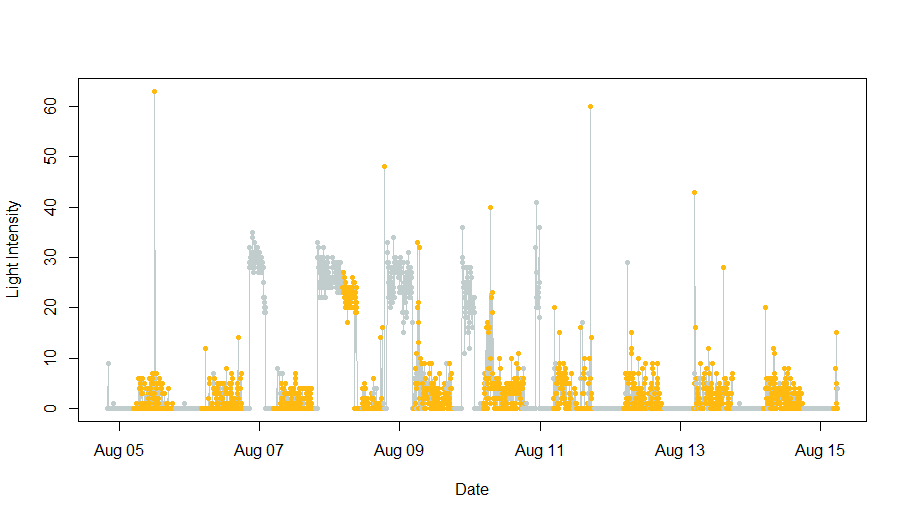
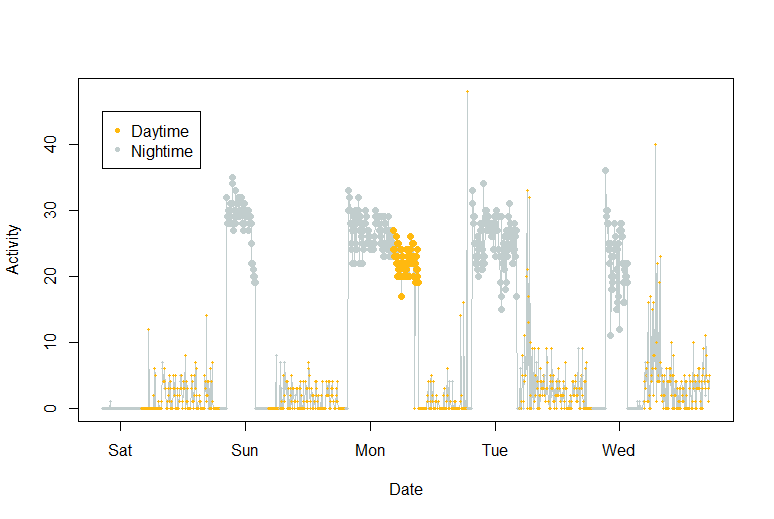
shoretened time of graphics

diff --git a/README.md b/README.md
@@ -38,7 +38,14 @@ data(PAM_data)
 # Look at that data
 str(PAM_data)
 ```
-This is what it should look like
+
+
+To import your own data use:
+```r
+importPAM("C:/Put/your/path/here")`
+```
+
+This is what it should look like:
 
 ```
 # # List of 6
@@ -65,8 +72,6 @@ This is what it should look like
 # #   ..$ mY  : int [1:1559] 15645 15610 15259 15549 15561 14545 16631 14548 15195 10924 ...
 # #   ..$ mZ  : int [1:1559] 5559 4627 6374 6147 5887 10881 5177 9000 6810 13793 ...
 ```
-
-To import your own data use `importPAM("C:/Put/your/path/here")`
 
 
 ## Plot the raw light data as an interactive plot
@@ -128,7 +133,7 @@ Continuously flapping birds have higher activity than soaring birds. You can the
 ```r
 behaviour = classifyFLAP(dta = PAM_data$acceleration, period = 3)
 ```
-![classification](https://raw.githubusercontent.com/KiranLDA/PAMLr/master/graphics/classification_threshold.png)
+<img align="center" src="https://raw.githubusercontent.com/KiranLDA/PAMLr/master/graphics/classification_thershold.png">
 
 This will give you various information. It will tell you how the data were classidied in `type`. It will also give you a `timetable` of when the bird was flying, with start and end times, and the duration of this flight in hours. This can be manipulated as needed. It then also gives you the `classification` of each time point and specified what each classification stands for, which value represents `low_activity`, `high_activity`, `migration` or `no_activity`. And finally what the `threshold` was between high and low activity.
 
@@ -239,30 +244,32 @@ It is therefore then possible to use this information to plot the classification
 ```r
 # plot the classification
 col=col=c("brown","cyan4","gold","black")
-plot(PAM_data$acceleration$date[2000:4000],PAM_data$acceleration$act[2000:4000],
-  col=col[behaviour$classification][2000:4000], 
+plot(PAM_data$acceleration$date[2000:3400],PAM_data$acceleration$act[2000:3400],
+  col=col[behaviour$classification][2000:3400], 
   type="o", pch=20, xlab="Date", ylab="Activity")
-legend( PAM_data$acceleration$date[2000],60 , 
+legend( PAM_data$acceleration$date[2000],50 , 
         c("No activity", "Low activity", "High activity", "Migration" ) ,
         col = col[c(behaviour$no_activity, behaviour$low_activity,
                     behaviour$high_activity, behaviour$migration)],
         pch=20)
-
-# look at timetable
-behaviour$timetable
 ```
-![classification](https://raw.githubusercontent.com/KiranLDA/PAMLr/master/graphics/classification.png)
+
+<img align="center" src="https://raw.githubusercontent.com/KiranLDA/PAMLr/master/graphics/classification.png">
 
 Interestingly we can see that the bird does these long migratory flights of > 10 hours, let's look to see, using the light data, whether these flights occur during night or day
 
 ```r
 #plot the activity data with daylight periods in yellow and nightime periods in grey
-plot(PAM_data$acceleration$date[6000:9000], PAM_data$acceleration$act[6000:9000],
-        type="o", xlab="Date", ylab="Light Intensity", pch=20,
-        col=ifelse(PAM_data$light$obs[6000:9000]>0,"darkgoldenrod1","azure3"))
+plot(PAM_data$acceleration$date[2000:3400], PAM_data$acceleration$act[2000:3400],
+        type="o", xlab="Date", ylab="Activity", pch=20, 
+        cex= ifelse(behaviour$classification[2000:3400] == behaviour$migration,1.5,0.7),
+        col=ifelse(PAM_data$light$obs[2000:3400]>0,"darkgoldenrod1","azure3"))
+legend(PAM_data$acceleration$date[2000],45, 
+        c("Daytime","Nightime") ,
+        col = c("darkgoldenrod1","azure3"),
+        pch=20)
 ```
-
-![activity during night and day](https://raw.githubusercontent.com/KiranLDA/PAMLr/master/graphics/nightime_daytime.png)
+<img align="center" src="https://raw.githubusercontent.com/KiranLDA/PAMLr/master/graphics/nightime_daytime.png">
 
 ### Classifying soar-gliding behaviour
 
